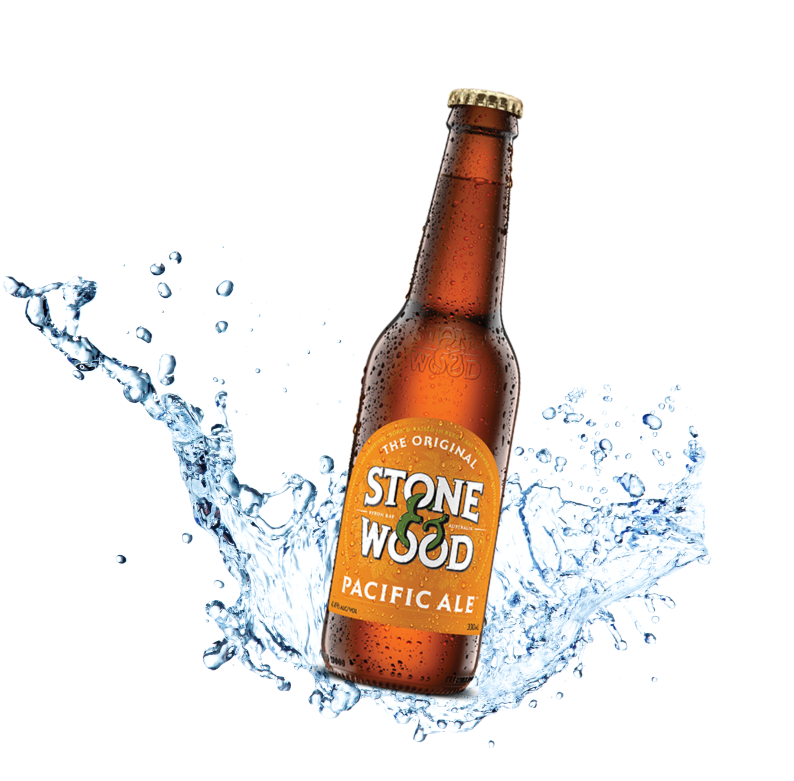
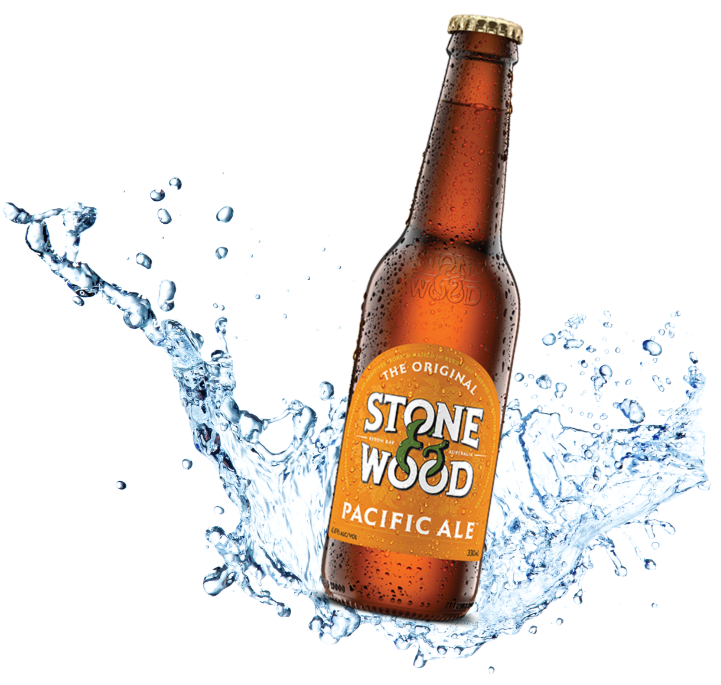
[update] KVの高さをファーストビューに収める

diff --git a/index.html b/index.html
@@ -34,13 +34,13 @@
     </header>
     <div id="kv_section">
       <div class="kv_container">
+        <img class="mv_bottle" src="./assets/img/mv_bottle.png" width="721" height="685">
+        <div class="sp_mv_bottle">
+          <img src="./assets/img/sp_product_beer.png" width="499" height="524">
+        </div>
         <div class="kv_text_wrap">
           <img class="kv_slogan" src="./assets/img/mv_logo.svg" width="694" height="115">
           <p class="kv_message">～大切な人へ感謝を伝える最高のギフト～</p>
-        </div>
-        <img class="mv_bottle" src="./assets/img/mv_bottle.png" width="729" height="679">
-        <div class="sp_mv_bottle">
-          <img src="./assets/img/sp_product_beer.png" width="499" height="524">
         </div>
       </div>
     </div>

diff --git a/assets/stylesheet.css b/assets/stylesheet.css
@@ -1,6 +1,5 @@
 * {
   box-sizing: border-box;
-  border: solid 1px black;
 }
 
 html {
@@ -161,6 +160,7 @@ header {
   background-size: cover;
   background-repeat: no-repeat;
   position: relative;
+  height: 100vh;
 }
 
 .kv_container {
@@ -171,16 +171,16 @@ header {
 }
 
 .kv_text_wrap {
-  margin: 28% 0 18% 0;
+  margin-top: -30%;
   height: 100%;
 }
 
 .mv_bottle {
-  display: none;
-  margin-top: -70%;
-  margin-left: 50%;
-  margin-bottom: 5%;
+  margin-top: 8%;
+  margin-left: 57%;
   object-fit: cover;
+  width: 45%;
+  height: 80%;
 }
 
 .sp_mv_bottle {
